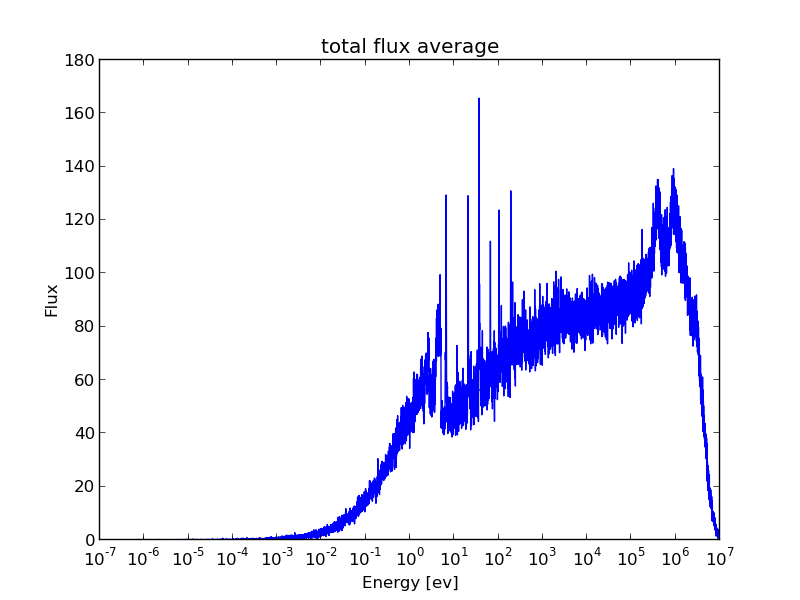
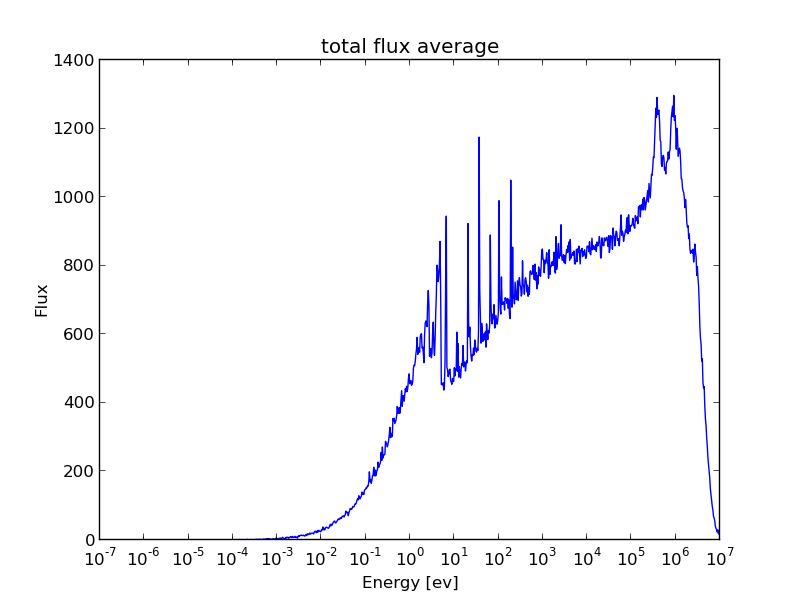
Fixed default fission xs for non fissionable isotopes

diff --git a/python/infinite.py b/python/infinite.py
@@ -115,7 +115,7 @@ def main():
 
     # Create a tally for the flux
     flux = Tally('total flux', REGION, FLUX)
-    flux.generateBinEdges(1E-7, 1E7, 10000, LOGARITHMIC)
+    flux.generateBinEdges(1E-7, 1E7, 1000, LOGARITHMIC)
     region_mix.addTally(flux)
 
     ############################################################################

diff --git a/src/Isotope.cpp b/src/Isotope.cpp
@@ -733,7 +733,7 @@ void Isotope::loadXS() {
         energies[0] = 1E-7;
         energies[1] = 1E7;
         xs_values[0] = 0.0;
-        xs_values[1] = 1.0;
+        xs_values[1] = 0.0;
 
 		setFissionXS(xs_values, energies, _num_fission_xs);
     }
